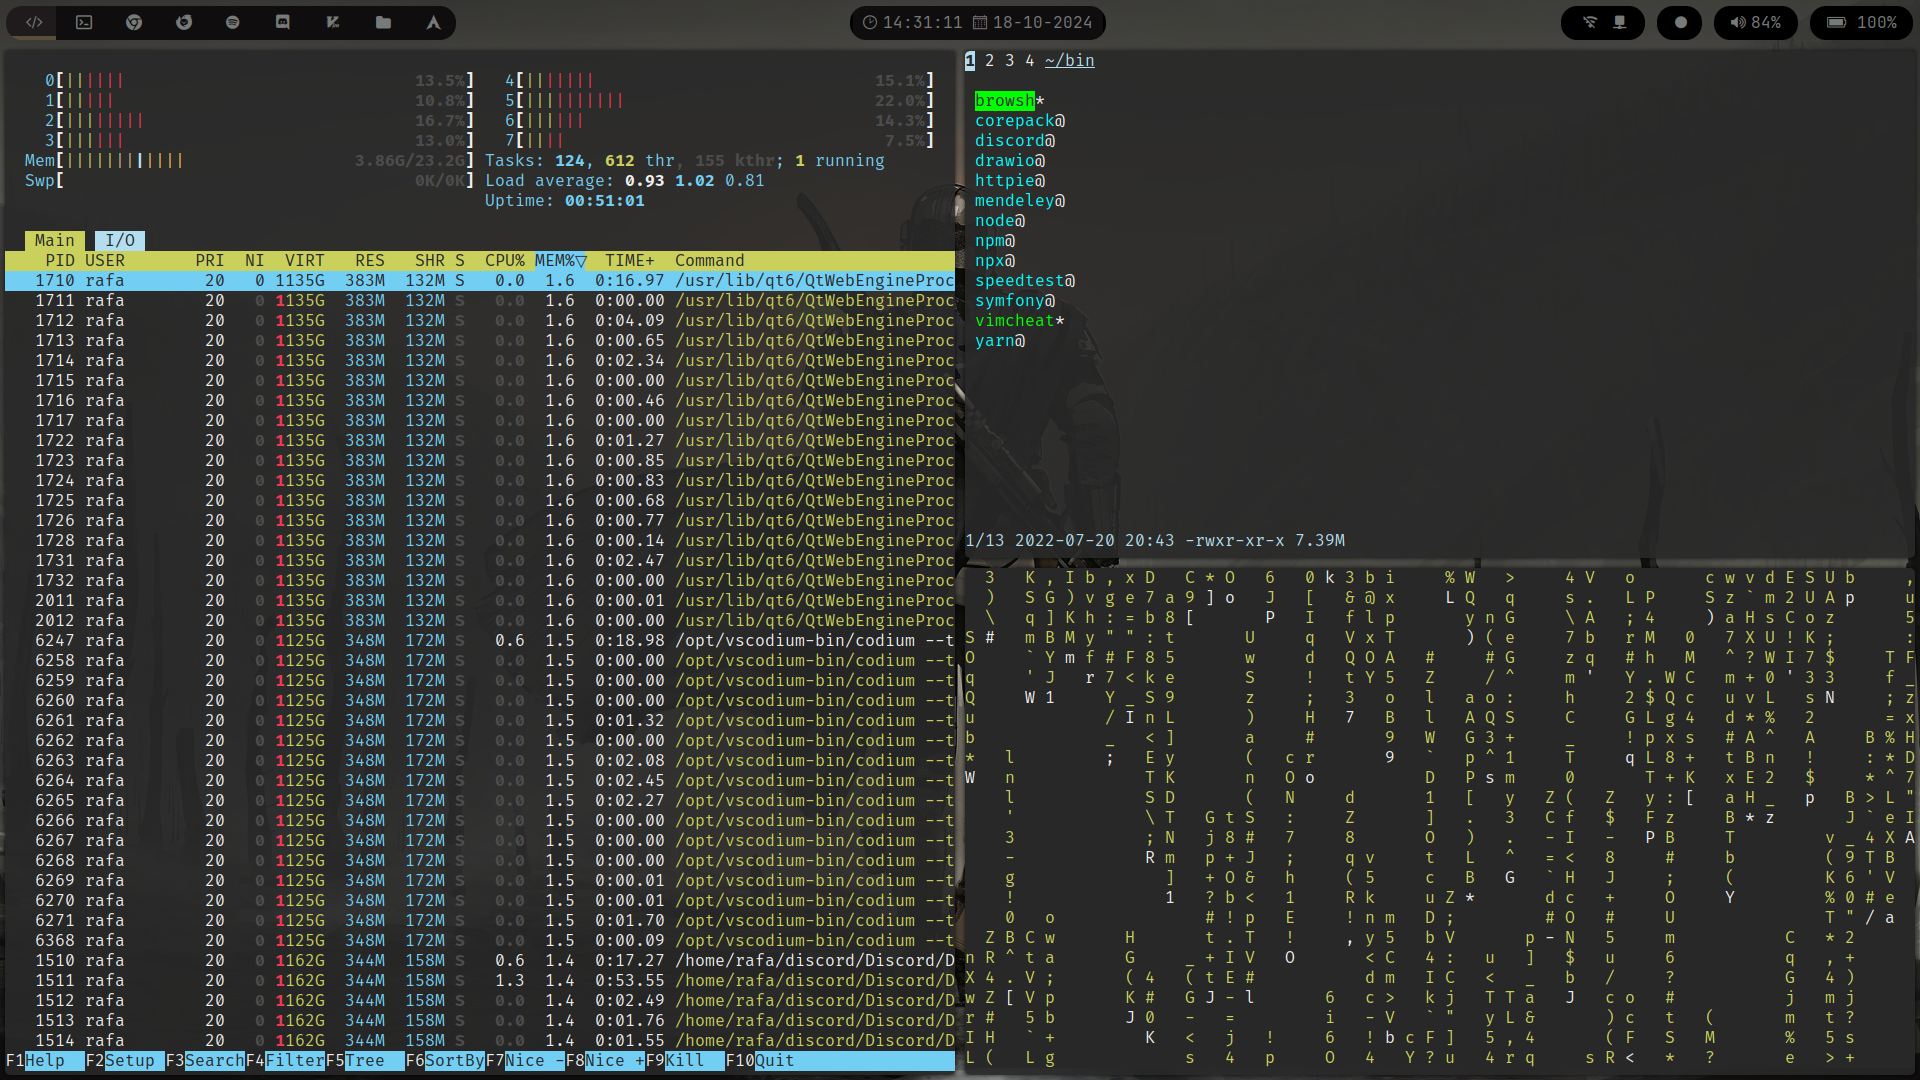
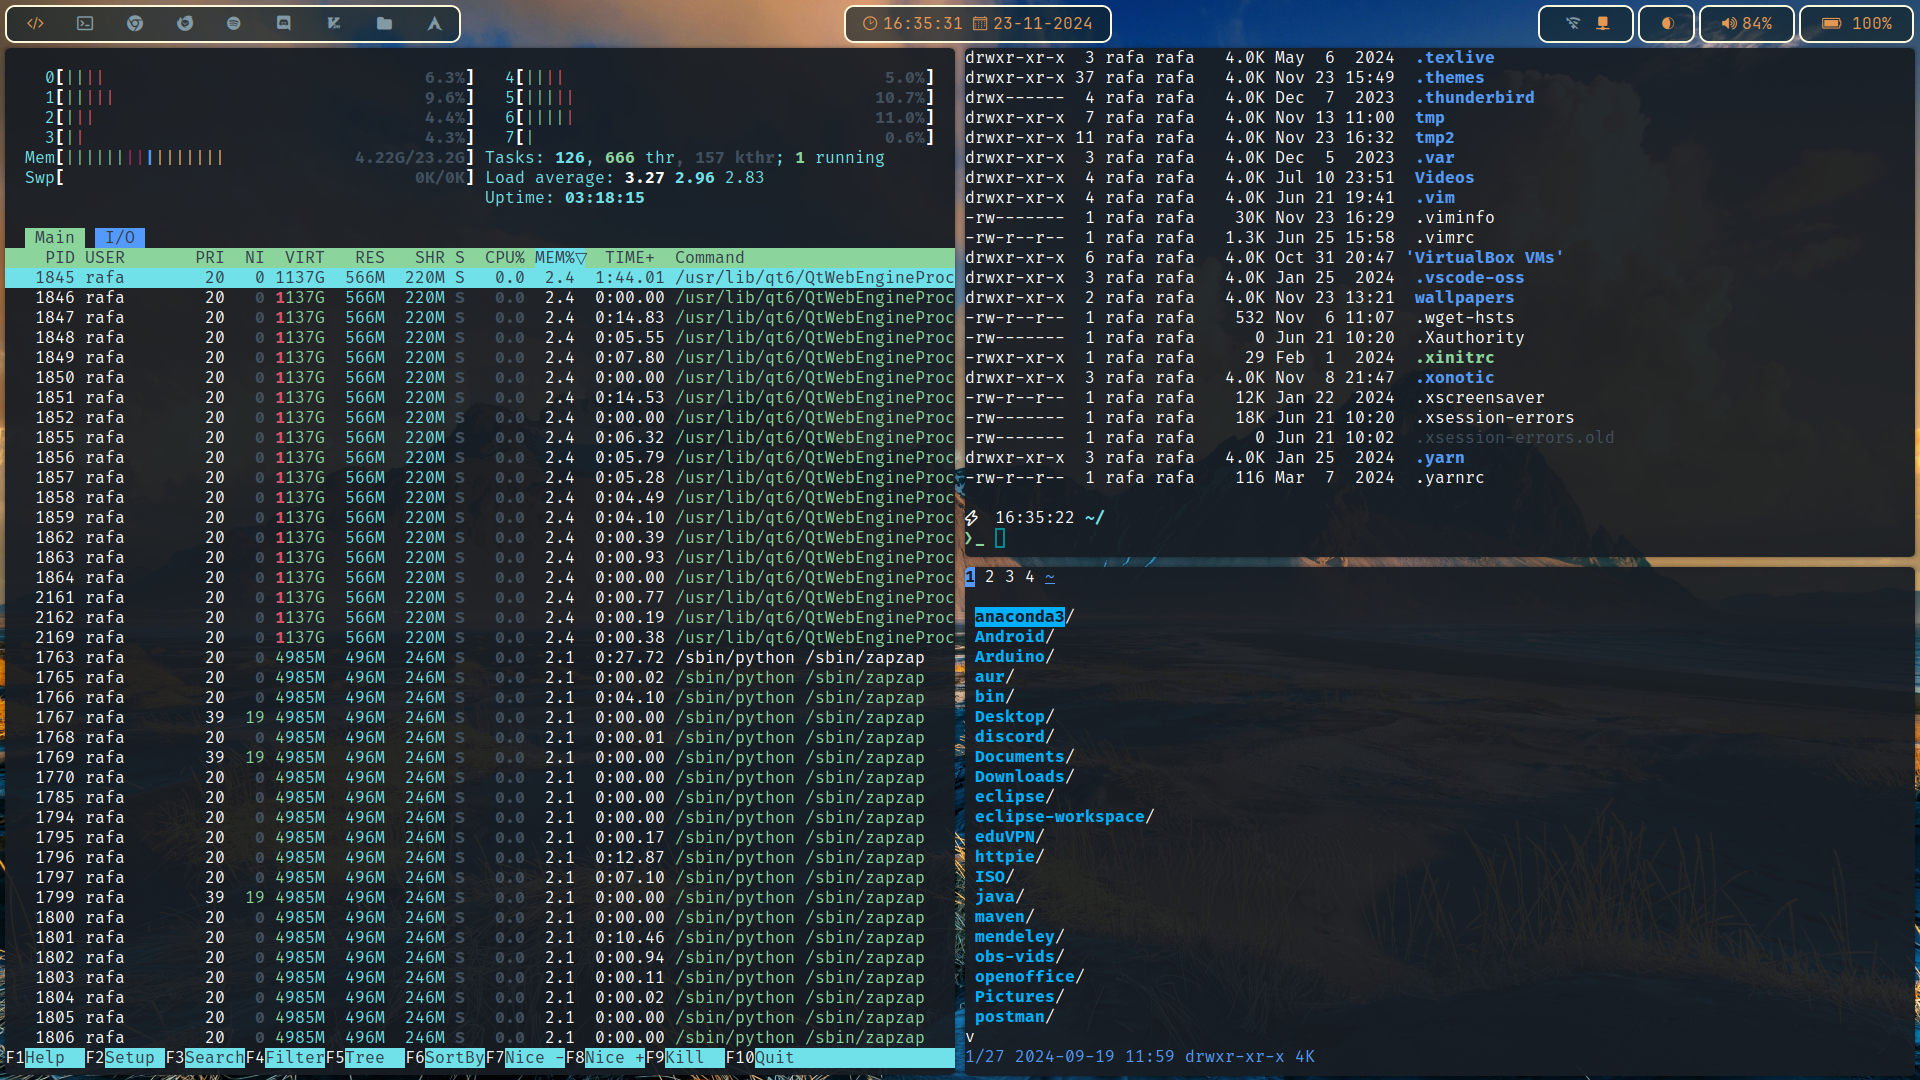
Update mando rice to landscape rice

diff --git a/polybar/.css b/polybar/.css
@@ -1,0 +1,3 @@
+*{
+    background-color: #112128ea;
+}
